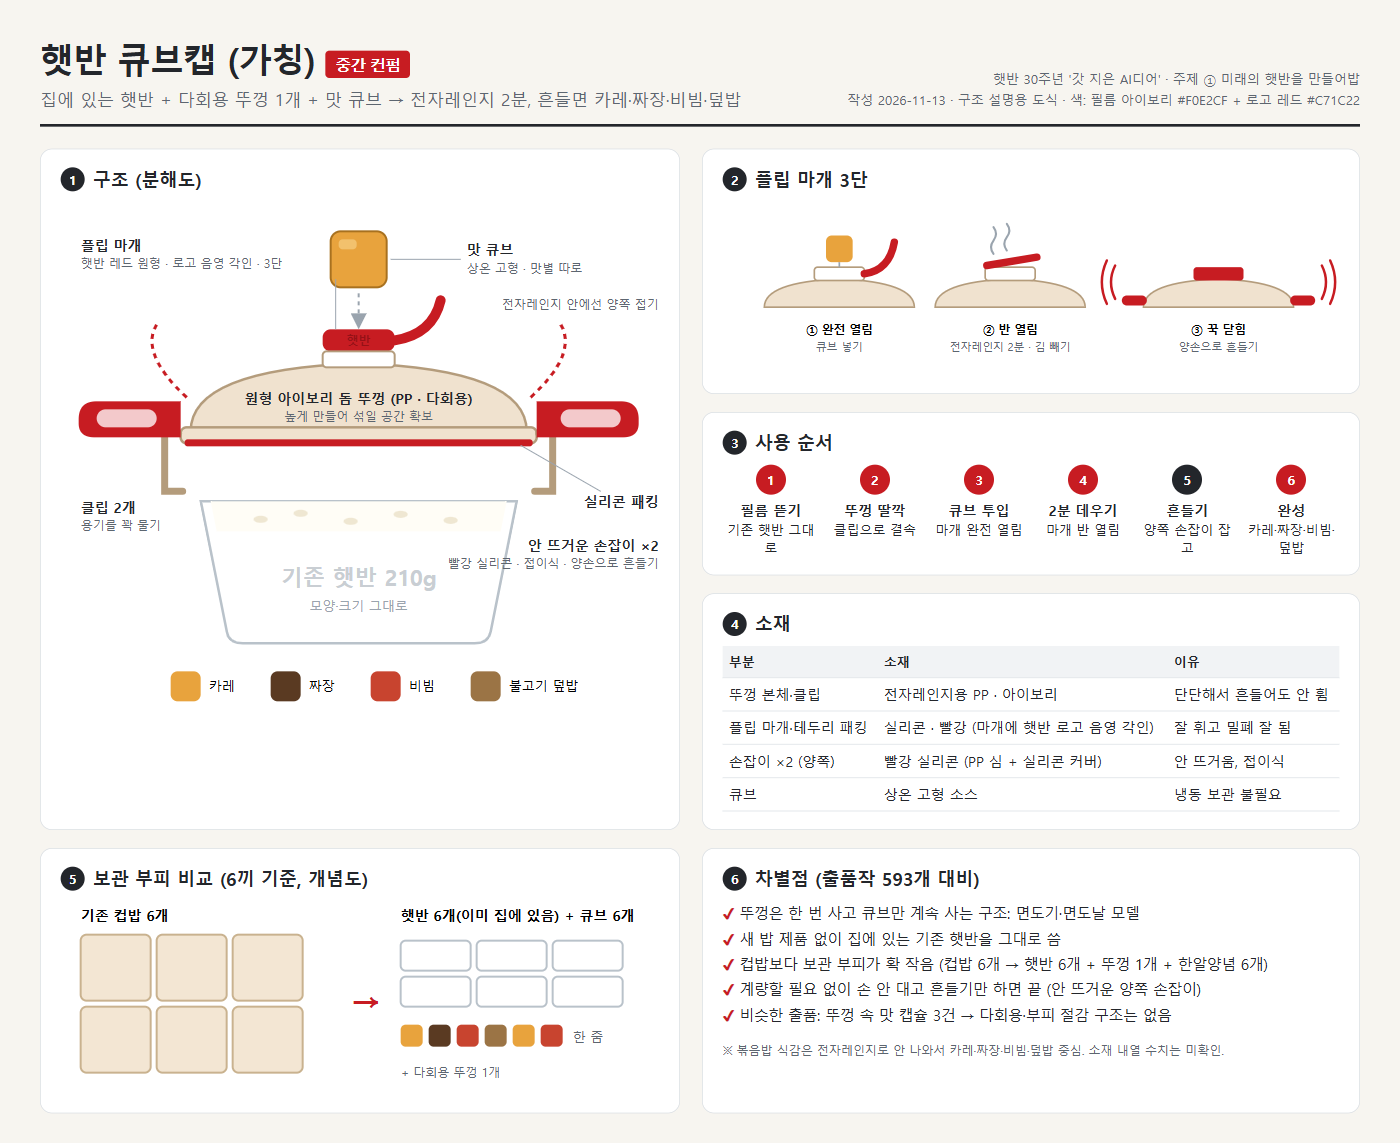
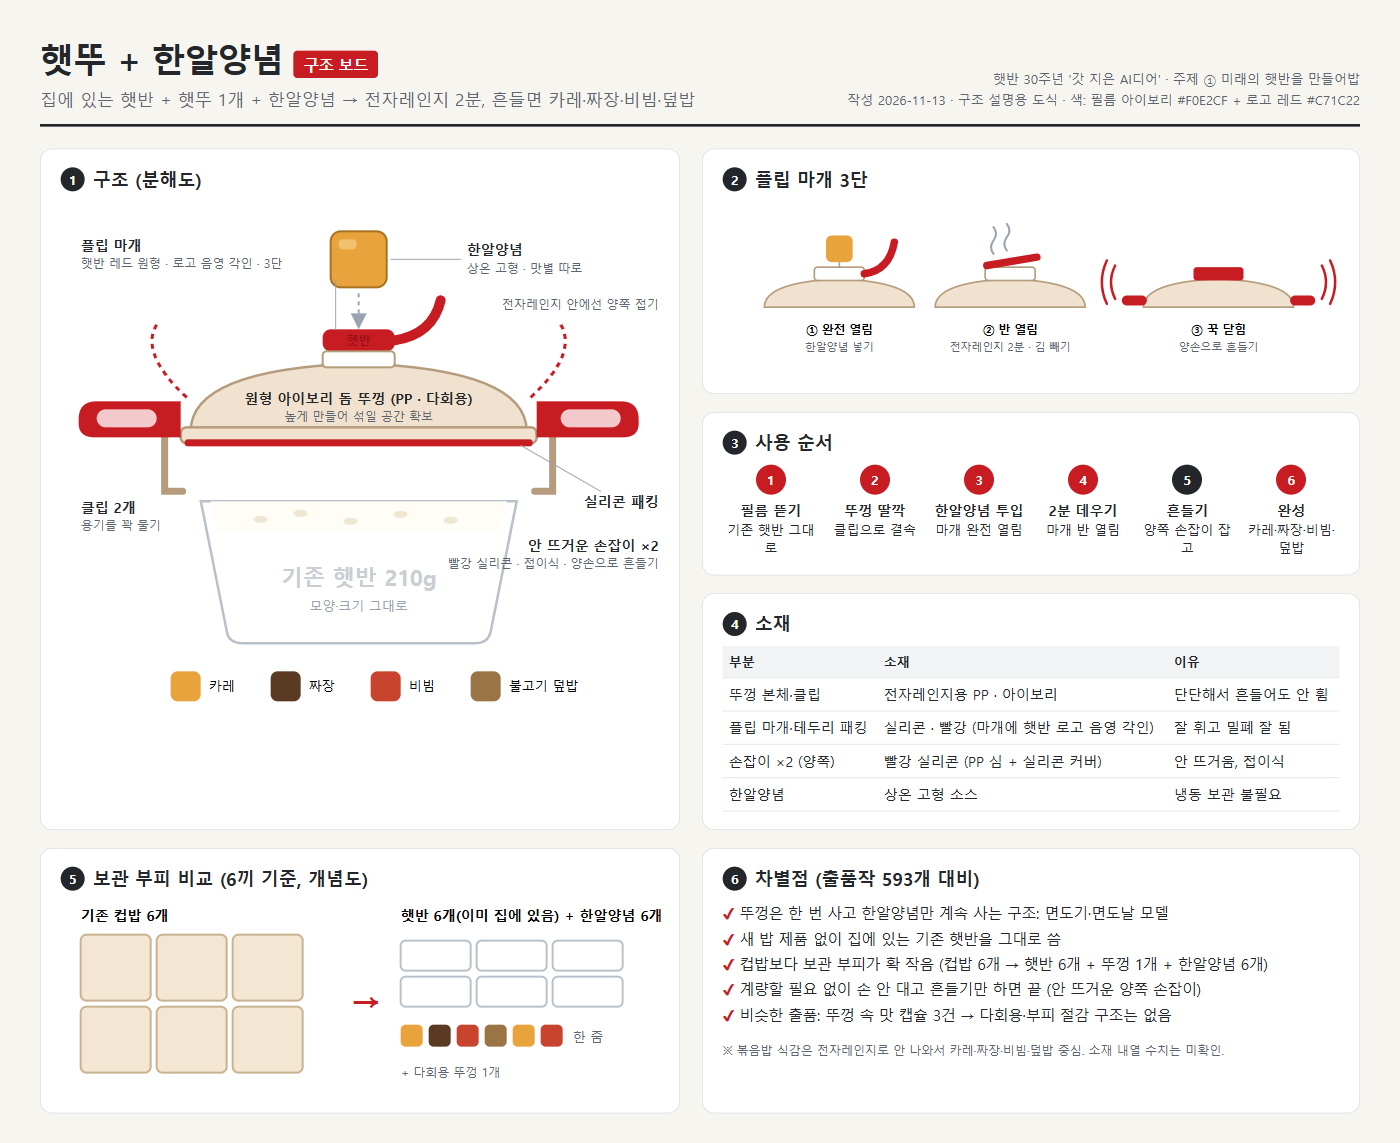
Auto-sync: 2026-11-13 16:28:06

diff --git a/햇반공모전/햇반큐브캡_중간컨펌.html b/햇반공모전/햇반큐브캡_중간컨펌.html
@@ -1,5 +1,5 @@
 <!doctype html>
-<html lang="ko"><head><meta charset="utf-8"><title>햇반 큐브캡 중간 컨펌</title>
+<html lang="ko"><head><meta charset="utf-8"><title>햇뚜 구조 보드</title>
 <style>
 :root{--ink:#23262b;--sub:#5d6670;--line:#d7dce1;--pp:#f0e2cf;--ppS:#b49c7c;--si:#c71c22;--siL:#f3c9cb;--rice:#fffdf6;--bg:#f7f5f0;--acc:#c71c22}
 *{box-sizing:border-box;margin:0;padding:0}
@@ -30,8 +30,8 @@ ul.pt li:before{content:"✔ ";color:var(--si);font-weight:700}
 </style></head><body>
 <header>
   <div>
-    <h1>햇반 큐브캡 (가칭)<small>중간 컨펌</small></h1>
-    <div class="tag">집에 있는 햇반 + 다회용 뚜껑 1개 + 맛 큐브 → 전자레인지 2분, 흔들면 카레·짜장·비빔·덮밥</div>
+    <h1>햇뚜 + 한알양념<small>구조 보드</small></h1>
+    <div class="tag">집에 있는 햇반 + 햇뚜 1개 + 한알양념 → 전자레인지 2분, 흔들면 카레·짜장·비빔·덮밥</div>
   </div>
   <div class="meta">햇반 30주년 '갓 지은 AI디어' · 주제 ① 미래의 햇반을 만들어밥<br>작성 2026-11-13 · 구조 설명용 도식 · 색: 필름 아이보리 #F0E2CF + 로고 레드 #C71C22</div>
 </header>
@@ -84,7 +84,7 @@ ul.pt li:before{content:"✔ ";color:var(--si);font-weight:700}
 
       <!-- labels -->
       <g font-size="14" fill="var(--ink)">
-        <line x1="330" y1="58" x2="400" y2="58" stroke="#9aa4ae"/><text x="406" y="54" font-weight="700">맛 큐브</text><text x="406" y="72" font-size="12" fill="var(--sub)">상온 고형 · 맛별 따로</text>
+        <line x1="330" y1="58" x2="400" y2="58" stroke="#9aa4ae"/><text x="406" y="54" font-weight="700">한알양념</text><text x="406" y="72" font-size="12" fill="var(--sub)">상온 고형 · 맛별 따로</text>
         <line x1="275" y1="128" x2="275" y2="78" stroke="#9aa4ae"/><text x="20" y="50" font-weight="700">플립 마개</text><text x="20" y="67" font-size="12" fill="var(--sub)">햇반 레드 원형 · 로고 음영 각인 · 3단</text>
         <text x="298" y="203" text-anchor="middle" font-weight="700">원형 아이보리 돔 뚜껑 (PP · 다회용)</text><text x="298" y="220" text-anchor="middle" font-size="12" fill="var(--sub)">높게 만들어 섞일 공간 확보</text>
         <text x="20" y="312" font-weight="700">클립 2개</text><text x="20" y="329" font-size="12" fill="var(--sub)">용기를 꽉 물기</text>
@@ -115,7 +115,7 @@ ul.pt li:before{content:"✔ ";color:var(--si);font-weight:700}
             <path d="M120 50 q30 -4 36 -38" stroke="var(--si)" stroke-width="9" fill="none" stroke-linecap="round"/>
             <rect x="74" y="4" width="32" height="32" rx="7" fill="#e8a33d"/>
             <path d="M90 36 v6" stroke="#9aa4ae" stroke-width="2"/>
-            <text x="90" y="122" font-weight="700">① 완전 열림</text><text x="90" y="142" fill="var(--sub)" font-size="13">큐브 넣기</text>
+            <text x="90" y="122" font-weight="700">① 완전 열림</text><text x="90" y="142" fill="var(--sub)" font-size="13">한알양념 넣기</text>
           </g>
           <!-- half -->
           <g transform="translate(225,20)">
@@ -145,7 +145,7 @@ ul.pt li:before{content:"✔ ";color:var(--si);font-weight:700}
       <div class="steps">
         <div class="step"><div class="n">1</div><b>필름 뜯기</b>기존 햇반 그대로</div>
         <div class="step"><div class="n">2</div><b>뚜껑 딸깍</b>클립으로 결속</div>
-        <div class="step"><div class="n">3</div><b>큐브 투입</b>마개 완전 열림</div>
+        <div class="step"><div class="n">3</div><b>한알양념 투입</b>마개 완전 열림</div>
         <div class="step"><div class="n">4</div><b>2분 데우기</b>마개 반 열림</div>
         <div class="step hl"><div class="n">5</div><b>흔들기</b>양쪽 손잡이 잡고</div>
         <div class="step"><div class="n">6</div><b>완성</b>카레·짜장·비빔·덮밥</div>
@@ -159,7 +159,7 @@ ul.pt li:before{content:"✔ ";color:var(--si);font-weight:700}
         <tr><td>뚜껑 본체·클립</td><td>전자레인지용 PP · 아이보리</td><td>단단해서 흔들어도 안 휨</td></tr>
         <tr><td>플립 마개·테두리 패킹</td><td>실리콘 · 빨강 (마개에 햇반 로고 음영 각인)</td><td>잘 휘고 밀폐 잘 됨</td></tr>
         <tr><td>손잡이 ×2 (양쪽)</td><td>빨강 실리콘 (PP 심 + 실리콘 커버)</td><td>안 뜨거움, 접이식</td></tr>
-        <tr><td>큐브</td><td>상온 고형 소스</td><td>냉동 보관 불필요</td></tr>
+        <tr><td>한알양념</td><td>상온 고형 소스</td><td>냉동 보관 불필요</td></tr>
       </table>
     </div>
   </div>
@@ -176,7 +176,7 @@ ul.pt li:before{content:"✔ ";color:var(--si);font-weight:700}
           <rect x="20" y="106" width="70" height="66" rx="6"/><rect x="96" y="106" width="70" height="66" rx="6"/><rect x="172" y="106" width="70" height="66" rx="6"/>
         </g>
         <text x="290" y="110" font-size="30" font-weight="700" fill="var(--acc)">→</text>
-        <text x="340" y="20" font-weight="700">햇반 6개(이미 집에 있음) + 큐브 6개</text>
+        <text x="340" y="20" font-weight="700">햇반 6개(이미 집에 있음) + 한알양념 6개</text>
         <g fill="#fff" stroke="#b9c2ca" stroke-width="2">
           <rect x="340" y="40" width="70" height="30" rx="5"/><rect x="416" y="40" width="70" height="30" rx="5"/><rect x="492" y="40" width="70" height="30" rx="5"/>
           <rect x="340" y="76" width="70" height="30" rx="5"/><rect x="416" y="76" width="70" height="30" rx="5"/><rect x="492" y="76" width="70" height="30" rx="5"/>
@@ -193,7 +193,7 @@ ul.pt li:before{content:"✔ ";color:var(--si);font-weight:700}
   <div class="card">
     <h2><b>6</b>차별점 (출품작 593개 대비)</h2>
     <ul class="pt">
-      <li>뚜껑은 한 번 사고 큐브만 계속 사는 구조: 면도기·면도날 모델</li>
+      <li>뚜껑은 한 번 사고 한알양념만 계속 사는 구조: 면도기·면도날 모델</li>
       <li>새 밥 제품 없이 집에 있는 기존 햇반을 그대로 씀</li>
       <li>컵밥보다 보관 부피가 확 작음 (컵밥 6개 → 햇반 6개 + 뚜껑 1개 + 한알양념 6개)</li>
       <li>계량할 필요 없이 손 안 대고 흔들기만 하면 끝 (안 뜨거운 양쪽 손잡이)</li>

diff --git a/햇반공모전/캐러셀_슬라이드.html b/햇반공모전/캐러셀_슬라이드.html
@@ -25,8 +25,8 @@ body{background:#ddd;font-family:Pretendard,"Malgun Gothic",sans-serif;color:var
 .li{font-size:40px;letter-spacing:-1px;display:flex;align-items:center;gap:18px}
 .li i{font-style:normal;width:48px;height:48px;border-radius:50%;background:var(--red);color:#fff;font-weight:800;font-size:28px;display:flex;align-items:center;justify-content:center;box-shadow:0 6px 14px rgba(199,28,34,.3)}
 .li b{font-weight:800}
-.board{position:absolute;left:110px;right:110px;top:640px;background:#fff;border-radius:18px;box-shadow:0 22px 50px rgba(0,0,0,.14);overflow:hidden}
-.board img{width:100%;display:block}
+.board{position:absolute;left:110px;right:110px;top:640px;height:520px;background:#fff;border-radius:18px;box-shadow:0 22px 50px rgba(0,0,0,.14);overflow:hidden}
+.board img{width:100%;height:100%;object-fit:cover;object-position:top;display:block}
 .cap{font-size:20px;color:#888;letter-spacing:0}
 </style></head><body>
 
